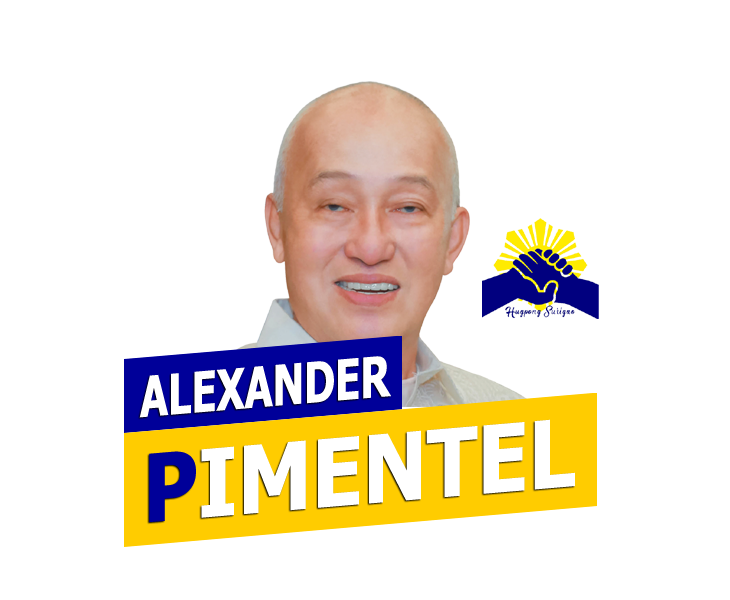
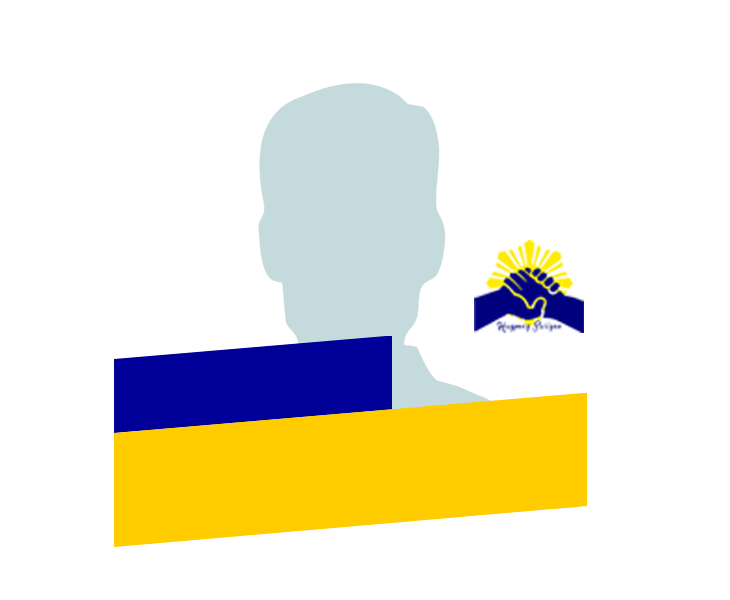
edit candidate image and header

Changed region(s): [[0.1507, 0.12, 0.8438, 0.93], [0.6329, 0.36, 0.8438, 0.57]]

diff --git a/resources/views/index.blade.php b/resources/views/index.blade.php
@@ -20,33 +20,33 @@
     <div class="candidate w-224 m-negmargin-5"><a href="{{ url('/johnny-t-pimentel') }}"><img src="{{ asset('/assets/images/johnny.png') }}" alt="Johnny T. Pimentel" title="Johnny T. Pimentel"></a></div>
 
     <div class="clear"></div>
-    <div class="candidate w-224 negmargin-5"><a href="{{ url('/vj-pimentel') }}"><img src="{{ asset('/assets/images/vjpimentel.png') }}" alt="Vj Pimentel" title="Vj Pimentel"></a></div>
-    <div class="candidate w-224 negmargin-5"><a href="{{ url('/philip-pichay') }}"><img src="{{ asset('/assets/images/philippichay.png') }}" alt="Philip Pichay" title="Philip Pichay"></a></div>
-    <div class="candidate w-224 negmargin-5"><a href="{{ url('/mary-grace-kimura') }}"><img src="{{ asset('/assets/images/marygracekimura.png') }}" alt="Mary Grace S. Kimura" title="Mary Grace S. Kimura"></a></div>
+    <div class="candidate w-224 negmargin-5"><a href="{{ url('/vj-pimentel') }}"><img src="{{ asset('/assets/images/sample1.png') }}" alt="Vj Pimentel" title="Vj Pimentel"></a></div>
+    <div class="candidate w-224 negmargin-5"><a href="{{ url('/philip-pichay') }}"><img src="{{ asset('/assets/images/sample2.png') }}" alt="Philip Pichay" title="Philip Pichay"></a></div>
+    <div class="candidate w-224 negmargin-5"><a href="{{ url('/mary-grace-kimura') }}"><img src="{{ asset('/assets/images/sample3.png') }}" alt="Mary Grace S. Kimura" title="Mary Grace S. Kimura"></a></div>
 
     <div class="clear"></div>
-    <div class="candidate w-224 negmargin-5"><a href="{{ url('/jane-plaza') }}"><img src="{{ asset('/assets/images/janeplaza.png') }}" alt="Jane V. Plaza" title="Jane V. Plaza"></a></div>
-    <div class="candidate w-224 negmargin-5"><a href="{{ url('/marvin-azarcon') }}"><img src="{{ asset('/assets/images/marvinazarcon.png') }}" alt="Marvin T. Azarcon" title="Marvin T. Azarcon"></a></div>
-    <div class="candidate w-224 negmargin-5"><a href="{{ url('/dennis-yu') }}"><img src="{{ asset('/assets/images/dennisyu.png') }}" alt="Dennis Yu" title="Dennis Yu"></a></div>
-    <div class="candidate w-224 negmargin-5"><a href="{{ url('/roxanne-pimentel') }}"><img src="{{ asset('/assets/images/roxannepimentel.png') }}" alt="Roxanne Pimentel" title="Roxanne Pimentel"></a></div>
+    <div class="candidate w-224 negmargin-5"><a href="{{ url('/jane-plaza') }}"><img src="{{ asset('/assets/images/sample1.png') }}" alt="Jane V. Plaza" title="Jane V. Plaza"></a></div>
+    <div class="candidate w-224 negmargin-5"><a href="{{ url('/marvin-azarcon') }}"><img src="{{ asset('/assets/images/sample2.png') }}" alt="Marvin T. Azarcon" title="Marvin T. Azarcon"></a></div>
+    <div class="candidate w-224 negmargin-5"><a href="{{ url('/dennis-yu') }}"><img src="{{ asset('/assets/images/sample3.png') }}" alt="Dennis Yu" title="Dennis Yu"></a></div>
+    <div class="candidate w-224 negmargin-5"><a href="{{ url('/roxanne-pimentel') }}"><img src="{{ asset('/assets/images/sample4.png') }}" alt="Roxanne Pimentel" title="Roxanne Pimentel"></a></div>
 
     <div class="clear"></div>
-    <div class="candidate w-224 negmargin-5"><a href="{{ url('/henrich-pimentel') }}"><img src="{{ asset('/assets/images/henrichpimentel.png') }}" alt="Henrich Pimentel" title="Henrich Pimentel"></a></div>
-    <div class="candidate w-224 negmargin-5"><a href="{{ url('/poly-lozada') }}"><img src="{{ asset('/assets/images/polylozada.png') }}" alt="Poly Lozada" title="Poly Lozada"></a></div>
-    <div class="candidate w-224 negmargin-5"><a href="{{ url('/glenn-batiansila') }}"><img src="{{ asset('/assets/images/glennbatiansila.png') }}" alt="Glenn Batiansila" title="Glenn Batiansila"></a></div>
-    <div class="candidate w-224 negmargin-5"><a href="{{ url('/dodoy-fazon') }}"><img src="{{ asset('/assets/images/dodoyfazon.png') }}" alt="Dodoy Fazon" title="Dodoy Fazon"></a></div>
+    <div class="candidate w-224 negmargin-5"><a href="{{ url('/henrich-pimentel') }}"><img src="{{ asset('/assets/images/sample1.png') }}" alt="Henrich Pimentel" title="Henrich Pimentel"></a></div>
+    <div class="candidate w-224 negmargin-5"><a href="{{ url('/poly-lozada') }}"><img src="{{ asset('/assets/images/sample2.png') }}" alt="Poly Lozada" title="Poly Lozada"></a></div>
+    <div class="candidate w-224 negmargin-5"><a href="{{ url('/glenn-batiansila') }}"><img src="{{ asset('/assets/images/sample3.png') }}" alt="Glenn Batiansila" title="Glenn Batiansila"></a></div>
+    <div class="candidate w-224 negmargin-5"><a href="{{ url('/dodoy-fazon') }}"><img src="{{ asset('/assets/images/sample4.png') }}" alt="Dodoy Fazon" title="Dodoy Fazon"></a></div>
 
     <div class="clear"></div>
-    <div class="candidate w-224 negmargin-5"><a href="{{ url('/nicolas-alameda') }}"><img src="{{ asset('/assets/images/nicolasalameda.png') }}" alt="Nicolas Alameda" title="Nicolas Alameda"></a></div>
-    <div class="candidate w-224 negmargin-5"><a href="{{ url('/kid-pedrozo') }}"><img src="{{ asset('/assets/images/kidpedrozo.png') }}" alt="Kid Pedrozo" title="Kid Pedrozo"></a></div>
-    <div class="candidate w-224 negmargin-5"><a href="{{ url('/joey-pama') }}"><img src="{{ asset('/assets/images/joeypama.png') }}" alt="Joey Pama" title="Joey Pama"></a></div>
-    <div class="candidate w-224 negmargin-5"><a href="{{ url('/shem-gray') }}"><img src="{{ asset('/assets/images/shemgaray.png') }}" alt="Shem Garay" title="Shem Garay"></a></div>
+    <div class="candidate w-224 negmargin-5"><a href="{{ url('/nicolas-alameda') }}"><img src="{{ asset('/assets/images/sample1.png') }}" alt="Nicolas Alameda" title="Nicolas Alameda"></a></div>
+    <div class="candidate w-224 negmargin-5"><a href="{{ url('/kid-pedrozo') }}"><img src="{{ asset('/assets/images/sample2.png') }}" alt="Kid Pedrozo" title="Kid Pedrozo"></a></div>
+    <div class="candidate w-224 negmargin-5"><a href="{{ url('/joey-pama') }}"><img src="{{ asset('/assets/images/sample3.png') }}" alt="Joey Pama" title="Joey Pama"></a></div>
+    <div class="candidate w-224 negmargin-5"><a href="{{ url('/shem-gray') }}"><img src="{{ asset('/assets/images/sample4.png') }}" alt="Shem Garay" title="Shem Garay"></a></div>
 
     <div class="clear"></div>
-    <div class="candidate w-224 negmargin-5"><a href="{{ url('/enchiong-garay') }}"><img src="{{ asset('/assets/images/enchionggaray.png') }}" alt="Enciong Garay" title="Enciong Garay"></a></div>
-    <div class="candidate w-224 negmargin-5"><a href="{{ url('/boyet-evangelio') }}"><img src="{{ asset('/assets/images/boyetevangelio.png') }}" alt="Boyet Evangelio" title="Boyet Evangelio"></a></div>
-    <div class="candidate w-224 negmargin-5"><a href="{{ url('/michael-corilla') }}"><img src="{{ asset('/assets/images/michaelcorilla.png') }}" alt="Michael T. Corilla" title="Michael T. Corilla"></a></div>
-    <div class="candidate w-224 negmargin-5"><a href="{{ url('/evelyn-naraiso') }}"><img src="{{ asset('/assets/images/evelynnaraiso.png') }}" alt="Evelyn Naraiso" title="Evelyn Naraiso"></a></div>
+    <div class="candidate w-224 negmargin-5"><a href="{{ url('/enchiong-garay') }}"><img src="{{ asset('/assets/images/sample1.png') }}" alt="Enciong Garay" title="Enciong Garay"></a></div>
+    <div class="candidate w-224 negmargin-5"><a href="{{ url('/boyet-evangelio') }}"><img src="{{ asset('/assets/images/sample2.png') }}" alt="Boyet Evangelio" title="Boyet Evangelio"></a></div>
+    <div class="candidate w-224 negmargin-5"><a href="{{ url('/michael-corilla') }}"><img src="{{ asset('/assets/images/sample3.png') }}" alt="Michael T. Corilla" title="Michael T. Corilla"></a></div>
+    <div class="candidate w-224 negmargin-5"><a href="{{ url('/evelyn-naraiso') }}"><img src="{{ asset('/assets/images/sample4.png') }}" alt="Evelyn Naraiso" title="Evelyn Naraiso"></a></div>
     <div class="clear"></div>
     </div>
 

diff --git a/resources/views/layouts/app.blade.php b/resources/views/layouts/app.blade.php
@@ -26,15 +26,15 @@
         <li data-target="#header-carousel" data-slide-to="0" class="active"></li>
         <li data-target="#header-carousel" data-slide-to="1"></li>
         <li data-target="#header-carousel" data-slide-to="2"></li>
-        <li data-target="#header-carousel" data-slide-to="3"></li>
+        {{-- <li data-target="#header-carousel" data-slide-to="3"></li> --}}
         </ol>
         <div class="carousel-inner">
             <div class="carousel-item active">
                 <img src="{{ asset('/assets/images/header2.jpg') }}" alt="">
             </div>
-            <div class="carousel-item">
+            {{-- <div class="carousel-item">
                 <img src="{{ asset('/assets/images/header1.jpg') }}" alt="">
-            </div>
+            </div> --}}
             <div class="carousel-item">
                 <img src="{{ asset('/assets/images/header4.jpg') }}" alt="">
             </div>

diff --git a/resources/views/candidates/ayekPimentel.blade.php b/resources/views/candidates/ayekPimentel.blade.php
@@ -6,7 +6,7 @@
 @section('content')
 <div class="section candidate-holder">
 	<div class="candidate">
-		<img src="{{ asset('assets/images/ayek-plataporma-solo.png') }}" alt="" title="">
+		<img src="{{ asset('assets/images/ayek-plataporma-solo2.png') }}" alt="" title="">
 	</div>
 </div>
 
@@ -19,7 +19,7 @@
 <!--Platform -->
 <div class="section yellow candidate-platform">
 	<div class="diagonal-divider-top">
-		<img src="assets/images/divider-white-0.png" >
+		<img src="{{ asset('/assets/images/divider-white-0.png') }}" >
 	</div>
 	<div class="top-pad">&nbsp;</div>
 	<div class="platform">

diff --git a/resources/views/candidates/boyetEvangelio.blade.php b/resources/views/candidates/boyetEvangelio.blade.php
@@ -19,7 +19,7 @@
 <!--Platform -->
 <div class="section yellow candidate-platform">
 	<div class="diagonal-divider-top">
-		<img src="assets/images/divider-white-0.png" >
+        <img src="{{ asset('/assets/images/divider-white-0.png') }}" >
 	</div>
 	<div class="top-pad">&nbsp;</div>
 	<div class="platform">

diff --git a/resources/views/candidates/dennisYu.blade.php b/resources/views/candidates/dennisYu.blade.php
@@ -19,7 +19,7 @@
 <!--Platform -->
 <div class="section yellow candidate-platform">
 	<div class="diagonal-divider-top">
-		<img src="assets/images/divider-white-0.png" >
+        <img src="{{ asset('/assets/images/divider-white-0.png') }}" >
 	</div>
 	<div class="top-pad">&nbsp;</div>
 	<div class="platform">

diff --git a/resources/views/candidates/dodoyFazon.blade.php b/resources/views/candidates/dodoyFazon.blade.php
@@ -19,7 +19,7 @@
 <!--Platform -->
 <div class="section yellow candidate-platform">
 	<div class="diagonal-divider-top">
-		<img src="assets/images/divider-white-0.png" >
+        <img src="{{ asset('/assets/images/divider-white-0.png') }}" >
 	</div>
 	<div class="top-pad">&nbsp;</div>
 	<div class="platform">

diff --git a/resources/views/candidates/enciongGaray.blade.php b/resources/views/candidates/enciongGaray.blade.php
@@ -19,7 +19,7 @@
 <!--Platform -->
 <div class="section yellow candidate-platform">
 	<div class="diagonal-divider-top">
-		<img src="assets/images/divider-white-0.png" >
+        <img src="{{ asset('/assets/images/divider-white-0.png') }}" >
 	</div>
 	<div class="top-pad">&nbsp;</div>
 	<div class="platform">

diff --git a/resources/views/candidates/evelynNaraiso.blade.php b/resources/views/candidates/evelynNaraiso.blade.php
@@ -19,7 +19,7 @@
 <!--Platform -->
 <div class="section yellow candidate-platform">
 	<div class="diagonal-divider-top">
-		<img src="assets/images/divider-white-0.png" >
+        <img src="{{ asset('/assets/images/divider-white-0.png') }}" >
 	</div>
 	<div class="top-pad">&nbsp;</div>
 	<div class="platform">

diff --git a/resources/views/candidates/glennBatiansila.blade.php b/resources/views/candidates/glennBatiansila.blade.php
@@ -19,7 +19,7 @@
 <!--Platform -->
 <div class="section yellow candidate-platform">
 	<div class="diagonal-divider-top">
-		<img src="assets/images/divider-white-0.png" >
+        <img src="{{ asset('/assets/images/divider-white-0.png') }}" >
 	</div>
 	<div class="top-pad">&nbsp;</div>
 	<div class="platform">

diff --git a/resources/views/candidates/henrichPimentel.blade.php b/resources/views/candidates/henrichPimentel.blade.php
@@ -19,7 +19,7 @@
 <!--Platform -->
 <div class="section yellow candidate-platform">
 	<div class="diagonal-divider-top">
-		<img src="assets/images/divider-white-0.png" >
+        <img src="{{ asset('/assets/images/divider-white-0.png') }}" >
 	</div>
 	<div class="top-pad">&nbsp;</div>
 	<div class="platform">

diff --git a/resources/views/candidates/janePlaza.blade.php b/resources/views/candidates/janePlaza.blade.php
@@ -19,7 +19,7 @@
 <!--Platform -->
 <div class="section yellow candidate-platform">
 	<div class="diagonal-divider-top">
-		<img src="assets/images/divider-white-0.png" >
+        <img src="{{ asset('/assets/images/divider-white-0.png') }}" >
 	</div>
 	<div class="top-pad">&nbsp;</div>
 	<div class="platform">

diff --git a/resources/views/candidates/joeyPama.blade.php b/resources/views/candidates/joeyPama.blade.php
@@ -19,7 +19,7 @@
 <!--Platform -->
 <div class="section yellow candidate-platform">
 	<div class="diagonal-divider-top">
-		<img src="assets/images/divider-white-0.png" >
+        <img src="{{ asset('/assets/images/divider-white-0.png') }}" >
 	</div>
 	<div class="top-pad">&nbsp;</div>
 	<div class="platform">
